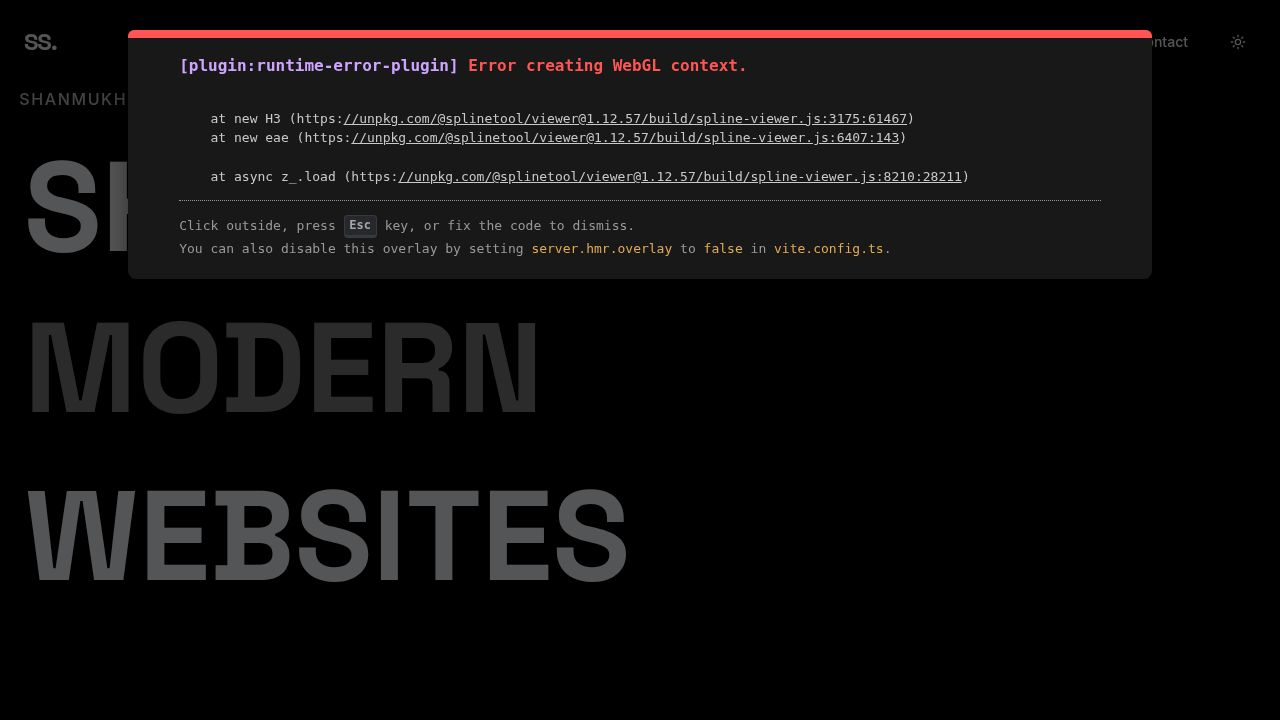
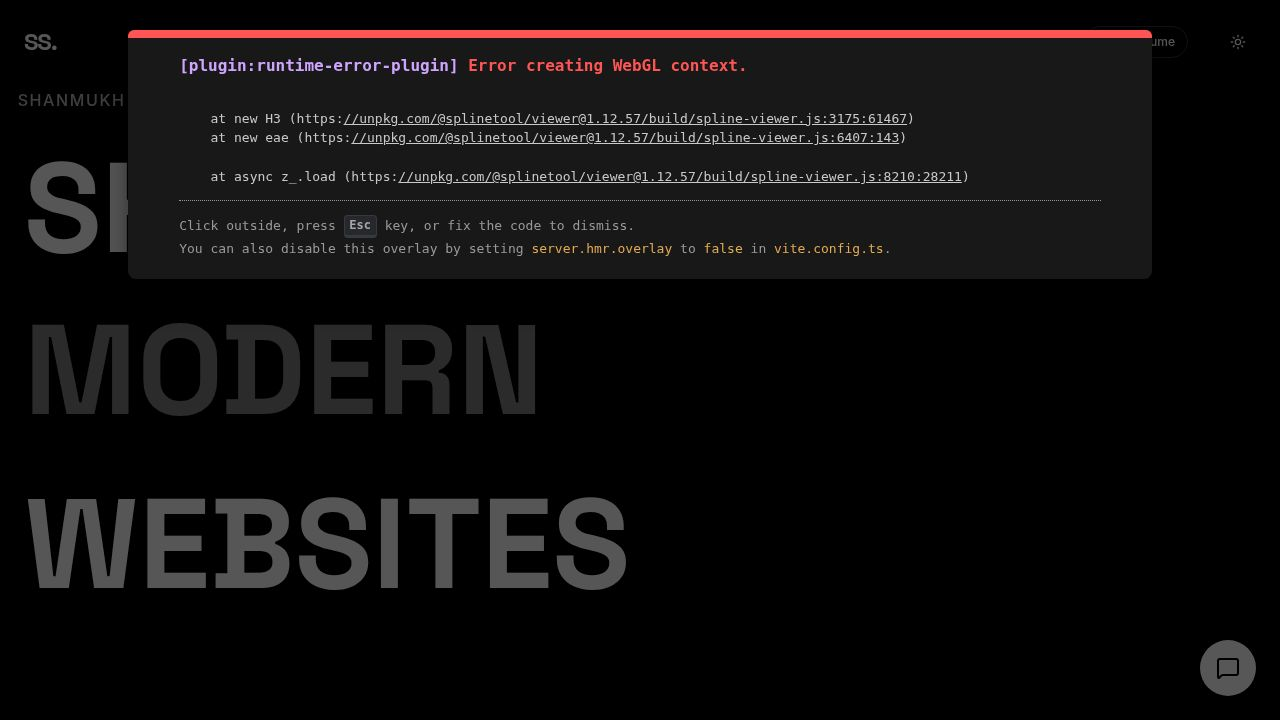
Improve chatbot conversation and refine portfolio color schemes
Refine AI chatbot behavior for more natural dialogue, implement a monochrome dark theme, and introduce a new light theme with subtle blue highlights. Also, add "Certifications" to the navigation bar.

Replit-Commit-Author: Agent
Replit-Commit-Session-Id: 2a8d1bd8-bda2-451a-b1bc-b8a9a6f17b0a
Replit-Commit-Checkpoint-Type: full_checkpoint
Replit-Commit-Event-Id: dd542382-c77b-4e2b-b493-50f885b81a38
Replit-Commit-Screenshot-Url: https://storage.googleapis.com/screenshot-production-us-central1/6e02a673-1784-4305-9d47-08c527193e47/2a8d1bd8-bda2-451a-b1bc-b8a9a6f17b0a/eobO0gG
Replit-Helium-Checkpoint-Created: true

diff --git a/client/src/components/layout/Chatbot.tsx b/client/src/components/layout/Chatbot.tsx
@@ -1,6 +1,6 @@
 import { useState, useRef, useEffect } from "react";
 import { motion, AnimatePresence } from "framer-motion";
-import { MessageSquare, X, Send, Bot, User } from "lucide-react";
+import { MessageSquare, X, Send, Bot } from "lucide-react";
 import { Button } from "@/components/ui/button";
 import { Input } from "@/components/ui/input";
 
@@ -13,7 +13,7 @@ export default function Chatbot() {
   const [isOpen, setIsOpen] = useState(false);
   const [input, setInput] = useState("");
   const [messages, setMessages] = useState<Message[]>([
-    { role: "assistant", content: "Hi! I'm Shanmukh's AI assistant. Ask me anything about his work, skills, or experience!" }
+    { role: "assistant", content: "Hey! I'm Shanmukh's digital assistant. How's your day going? Feel free to ask me anything about my projects or design journey!" }
   ]);
   const [isLoading, setIsLoading] = useState(false);
   const scrollRef = useRef<HTMLDivElement>(null);
@@ -46,7 +46,7 @@ export default function Chatbot() {
           messages: [
             { 
               role: "system", 
-              content: "You are an AI assistant for Shanmukh Srinadh's personal portfolio. Shanmukh is a UI/UX Designer and Web Developer from Visakhapatnam, India. He has skills in HTML/CSS, React, Figma, and WordPress. Be professional, friendly, and helpful. Mention his awards and certifications if asked." 
+              content: "You are Shanmukh Srinadh's personal assistant. Talk like a real human: friendly, casual, and professional. Avoid using markdown formatting like bolding with stars (**), hashtags (#), or lists unless absolutely necessary. Keep responses concise and conversational. If someone asks about Shanmukh, tell them he's a UI/UX Designer and Web Developer from Visakhapatnam who loves creating seamless digital stories. Don't act like a search engine; act like a friend representing him." 
             },
             ...messages,
             userMessage
@@ -55,11 +55,15 @@ export default function Chatbot() {
       });
 
       const data = await response.json();
-      const assistantMessage = data.choices[0].message.content;
+      let assistantMessage = data.choices[0].message.content;
+      
+      // Post-process to remove excessive markdown just in case the model forgets
+      assistantMessage = assistantMessage.replace(/\*\*/g, '').replace(/###/g, '').replace(/##/g, '').replace(/#/g, '');
+      
       setMessages(prev => [...prev, { role: "assistant", content: assistantMessage }]);
     } catch (error) {
       console.error("Chat Error:", error);
-      setMessages(prev => [...prev, { role: "assistant", content: "Sorry, I'm having trouble connecting right now. Please try again later!" }]);
+      setMessages(prev => [...prev, { role: "assistant", content: "Oops, something went wrong on my end. Mind trying again in a bit?" }]);
     } finally {
       setIsLoading(false);
     }
@@ -67,35 +71,32 @@ export default function Chatbot() {
 
   return (
     <>
-      {/* Chat Toggle Button */}
       <motion.button
         whileHover={{ scale: 1.1 }}
         whileTap={{ scale: 0.9 }}
         onClick={() => setIsOpen(!isOpen)}
-        className="fixed bottom-6 right-6 z-50 w-14 h-14 bg-primary text-background rounded-full shadow-2xl flex items-center justify-center hover:bg-primary/90 transition-colors"
+        className="fixed bottom-6 right-6 z-50 w-14 h-14 bg-primary text-primary-foreground rounded-full shadow-2xl flex items-center justify-center hover:opacity-90 transition-all"
       >
         {isOpen ? <X className="w-6 h-6" /> : <MessageSquare className="w-6 h-6" />}
       </motion.button>
 
-      {/* Chat Window */}
       <AnimatePresence>
         {isOpen && (
           <motion.div
             initial={{ opacity: 0, y: 20, scale: 0.95 }}
             animate={{ opacity: 1, y: 0, scale: 1 }}
             exit={{ opacity: 0, y: 20, scale: 0.95 }}
-            className="fixed bottom-24 right-6 z-50 w-[350px] h-[500px] bg-background border border-white/10 rounded-2xl shadow-2xl flex flex-col overflow-hidden backdrop-blur-xl"
+            className="fixed bottom-24 right-6 z-50 w-[350px] h-[500px] bg-background border border-border rounded-2xl shadow-2xl flex flex-col overflow-hidden backdrop-blur-xl"
           >
-            {/* Header */}
-            <div className="p-4 border-b border-white/10 bg-secondary/20 flex items-center justify-between">
+            <div className="p-4 border-b border-border bg-secondary/10 flex items-center justify-between">
               <div className="flex items-center gap-3">
-                <div className="w-8 h-8 rounded-full bg-primary/20 flex items-center justify-center">
+                <div className="w-8 h-8 rounded-full bg-primary/10 flex items-center justify-center">
                   <Bot className="w-5 h-5 text-primary" />
                 </div>
                 <div>
                   <p className="text-sm font-bold">Shanmukh AI</p>
                   <p className="text-[10px] text-muted-foreground flex items-center gap-1">
-                    <span className="w-1.5 h-1.5 bg-green-500 rounded-full animate-pulse" /> Online
+                    <span className="w-1.5 h-1.5 bg-green-500 rounded-full animate-pulse" /> Active
                   </p>
                 </div>
               </div>
@@ -104,17 +105,16 @@ export default function Chatbot() {
               </button>
             </div>
 
-            {/* Messages */}
             <div 
               ref={scrollRef}
-              className="flex-1 overflow-y-auto p-4 space-y-4 no-scrollbar"
+              className="flex-1 overflow-y-auto p-4 space-y-4 no-scrollbar bg-background/50"
             >
               {messages.map((msg, idx) => (
                 <div key={idx} className={`flex ${msg.role === "user" ? "justify-end" : "justify-start"}`}>
-                  <div className={`max-w-[80%] p-3 rounded-2xl text-sm ${
+                  <div className={`max-w-[85%] p-3 rounded-2xl text-sm leading-relaxed ${
                     msg.role === "user" 
-                      ? "bg-primary text-background rounded-tr-none" 
-                      : "bg-secondary text-foreground rounded-tl-none"
+                      ? "bg-primary text-primary-foreground rounded-tr-none" 
+                      : "bg-secondary text-foreground rounded-tl-none border border-border"
                   }`}>
                     {msg.content}
                   </div>
@@ -122,27 +122,26 @@ export default function Chatbot() {
               ))}
               {isLoading && (
                 <div className="flex justify-start">
-                  <div className="bg-secondary p-3 rounded-2xl rounded-tl-none animate-pulse">
-                    <div className="flex gap-1">
-                      <div className="w-1.5 h-1.5 bg-muted-foreground rounded-full animate-bounce" />
-                      <div className="w-1.5 h-1.5 bg-muted-foreground rounded-full animate-bounce [animation-delay:0.2s]" />
-                      <div className="w-1.5 h-1.5 bg-muted-foreground rounded-full animate-bounce [animation-delay:0.4s]" />
+                  <div className="bg-secondary p-3 rounded-2xl rounded-tl-none border border-border animate-pulse">
+                    <div className="flex gap-1.5">
+                      <div className="w-1.5 h-1.5 bg-muted-foreground/50 rounded-full animate-bounce" />
+                      <div className="w-1.5 h-1.5 bg-muted-foreground/50 rounded-full animate-bounce [animation-delay:0.2s]" />
+                      <div className="w-1.5 h-1.5 bg-muted-foreground/50 rounded-full animate-bounce [animation-delay:0.4s]" />
                     </div>
                   </div>
                 </div>
               )}
             </div>
 
-            {/* Input */}
-            <div className="p-4 border-t border-white/10 flex gap-2">
+            <div className="p-4 border-t border-border flex gap-2 bg-background">
               <Input
                 value={input}
                 onChange={(e) => setInput(e.target.value)}
                 onKeyPress={(e) => e.key === "Enter" && handleSend()}
-                placeholder="Ask something..."
-                className="bg-secondary/50 border-white/10"
+                placeholder="Type a message..."
+                className="bg-secondary/20 border-border focus:ring-1 focus:ring-primary"
               />
-              <Button onClick={handleSend} size="icon" disabled={isLoading}>
+              <Button onClick={handleSend} size="icon" disabled={isLoading} className="shrink-0">
                 <Send className="w-4 h-4" />
               </Button>
             </div>

diff --git a/client/src/index.css b/client/src/index.css
@@ -38,69 +38,68 @@
 }
 
 :root {
-  /* Default to Dark Mode for Premium Feel */
-  --background: 224 71% 4%;
-  --foreground: 210 40% 98%;
+  /* Premium Monochrome Dark Mode (Default) */
+  --background: 0 0% 0%;
+  --foreground: 0 0% 100%;
 
-  --card: 224 71% 4%;
-  --card-foreground: 210 40% 98%;
+  --card: 0 0% 3%;
+  --card-foreground: 0 0% 98%;
 
-  --popover: 224 71% 4%;
-  --popover-foreground: 210 40% 98%;
+  --popover: 0 0% 5%;
+  --popover-foreground: 0 0% 100%;
 
-  --primary: 210 40% 98%;
-  --primary-foreground: 222.2 47.4% 11.2%;
+  --primary: 0 0% 100%;
+  --primary-foreground: 0 0% 0%;
 
-  --secondary: 217.2 32.6% 17.5%;
-  --secondary-foreground: 210 40% 98%;
+  --secondary: 0 0% 12%;
+  --secondary-foreground: 0 0% 100%;
 
-  --muted: 217.2 32.6% 17.5%;
-  --muted-foreground: 215 20.2% 65.1%;
+  --muted: 0 0% 15%;
+  --muted-foreground: 0 0% 65%;
 
-  --accent: 217.2 32.6% 17.5%;
-  --accent-foreground: 210 40% 98%;
+  --accent: 0 0% 20%;
+  --accent-foreground: 0 0% 100%;
 
-  --destructive: 0 62.8% 30.6%;
-  --destructive-foreground: 210 40% 98%;
+  --destructive: 0 84% 60%;
+  --destructive-foreground: 0 0% 100%;
 
-  --border: 217.2 32.6% 17.5%;
-  --input: 217.2 32.6% 17.5%;
-  --ring: 212.7 26.8% 83.9%;
+  --border: 0 0% 15%;
+  --input: 0 0% 15%;
+  --ring: 0 0% 80%;
   
   --radius: 0.5rem;
 }
-body {
-  cursor: none;
-}
 
 .light {
+  /* Soft High-End Light Mode */
   --background: 0 0% 100%;
-  --foreground: 222.2 84% 4.9%;
+  --foreground: 220 20% 15%;
 
-  --card: 0 0% 100%;
-  --card-foreground: 222.2 84% 4.9%;
+  --card: 0 0% 98%;
+  --card-foreground: 220 20% 15%;
 
   --popover: 0 0% 100%;
-  --popover-foreground: 222.2 84% 4.9%;
+  --popover-foreground: 220 20% 15%;
 
-  --primary: 222.2 47.4% 11.2%;
-  --primary-foreground: 210 40% 98%;
+  /* Subtle Blue Highlights for Light Mode */
+  --primary: 215 90% 45%; 
+  --primary-foreground: 0 0% 100%;
 
-  --secondary: 210 40% 96.1%;
-  --secondary-foreground: 222.2 47.4% 11.2%;
+  --secondary: 215 30% 96%;
+  --secondary-foreground: 215 90% 30%;
 
-  --muted: 210 40% 96.1%;
-  --muted-foreground: 215.4 16.3% 46.9%;
+  --muted: 215 15% 92%;
+  --muted-foreground: 215 10% 45%;
 
-  --accent: 210 40% 96.1%;
-  --accent-foreground: 222.2 47.4% 11.2%;
+  --accent: 215 50% 94%;
+  --accent-foreground: 215 90% 40%;
 
-  --destructive: 0 84.2% 60.2%;
+  --destructive: 0 84% 60%;
   --destructive-foreground: 210 40% 98%;
 
-  --border: 214.3 31.8% 91.4%;
-  --input: 214.3 31.8% 91.4%;
-  --ring: 222.2 84% 4.9%;
+  --border: 215 15% 90%;
+  --input: 215 15% 90%;
+  --ring: 215 90% 45%;
 }
 
 @layer base {
@@ -108,30 +107,27 @@ body {
     @apply border-border;
   }
   body {
-    @apply font-sans antialiased bg-background text-foreground selection:bg-primary selection:text-primary-foreground;
+    @apply font-sans antialiased bg-background text-foreground selection:bg-primary selection:text-primary-foreground transition-colors duration-500;
   }
   
-  /* Smooth scrolling for the whole document */
   html {
     scroll-behavior: smooth;
   }
 }
 
-/* Custom Utilities for Premium Effects */
 @layer utilities {
   .text-balance {
     text-wrap: balance;
   }
   
   .glass {
-    @apply bg-background/60 backdrop-blur-lg border border-white/10;
+    @apply bg-background/60 backdrop-blur-lg border border-white/5;
   }
   
   .glass-card {
-    @apply bg-white/5 backdrop-blur-md border border-white/10 shadow-xl;
+    @apply bg-white/2 backdrop-blur-md border border-white/5 shadow-xl;
   }
 
-  /* Hide scrollbar for cleaner look */
   .no-scrollbar::-webkit-scrollbar {
     display: none;
   }

diff --git a/client/src/components/layout/Navbar.tsx b/client/src/components/layout/Navbar.tsx
@@ -30,8 +30,9 @@ export default function Navbar() {
 
   const navLinks = [
     { name: "About", href: "#about" },
-    { name: "Services", href: "#services" },
     { name: "Projects", href: "#projects" },
+    { name: "Services", href: "#services" },
+    { name: "Certifications", href: "#certifications" },
     { name: "Contact", href: "#contact" },
   ];
 
@@ -42,7 +43,7 @@ export default function Navbar() {
   return (
     <nav
       className={`fixed top-0 w-full z-40 transition-all duration-300 ${
-        scrolled ? "bg-background/80 backdrop-blur-md py-4 shadow-sm" : "bg-transparent py-6"
+        scrolled ? "bg-background/80 backdrop-blur-md py-4 shadow-sm border-b border-border/50" : "bg-transparent py-6"
       }`}
     >
       <div className="container mx-auto px-6 flex justify-between items-center">
